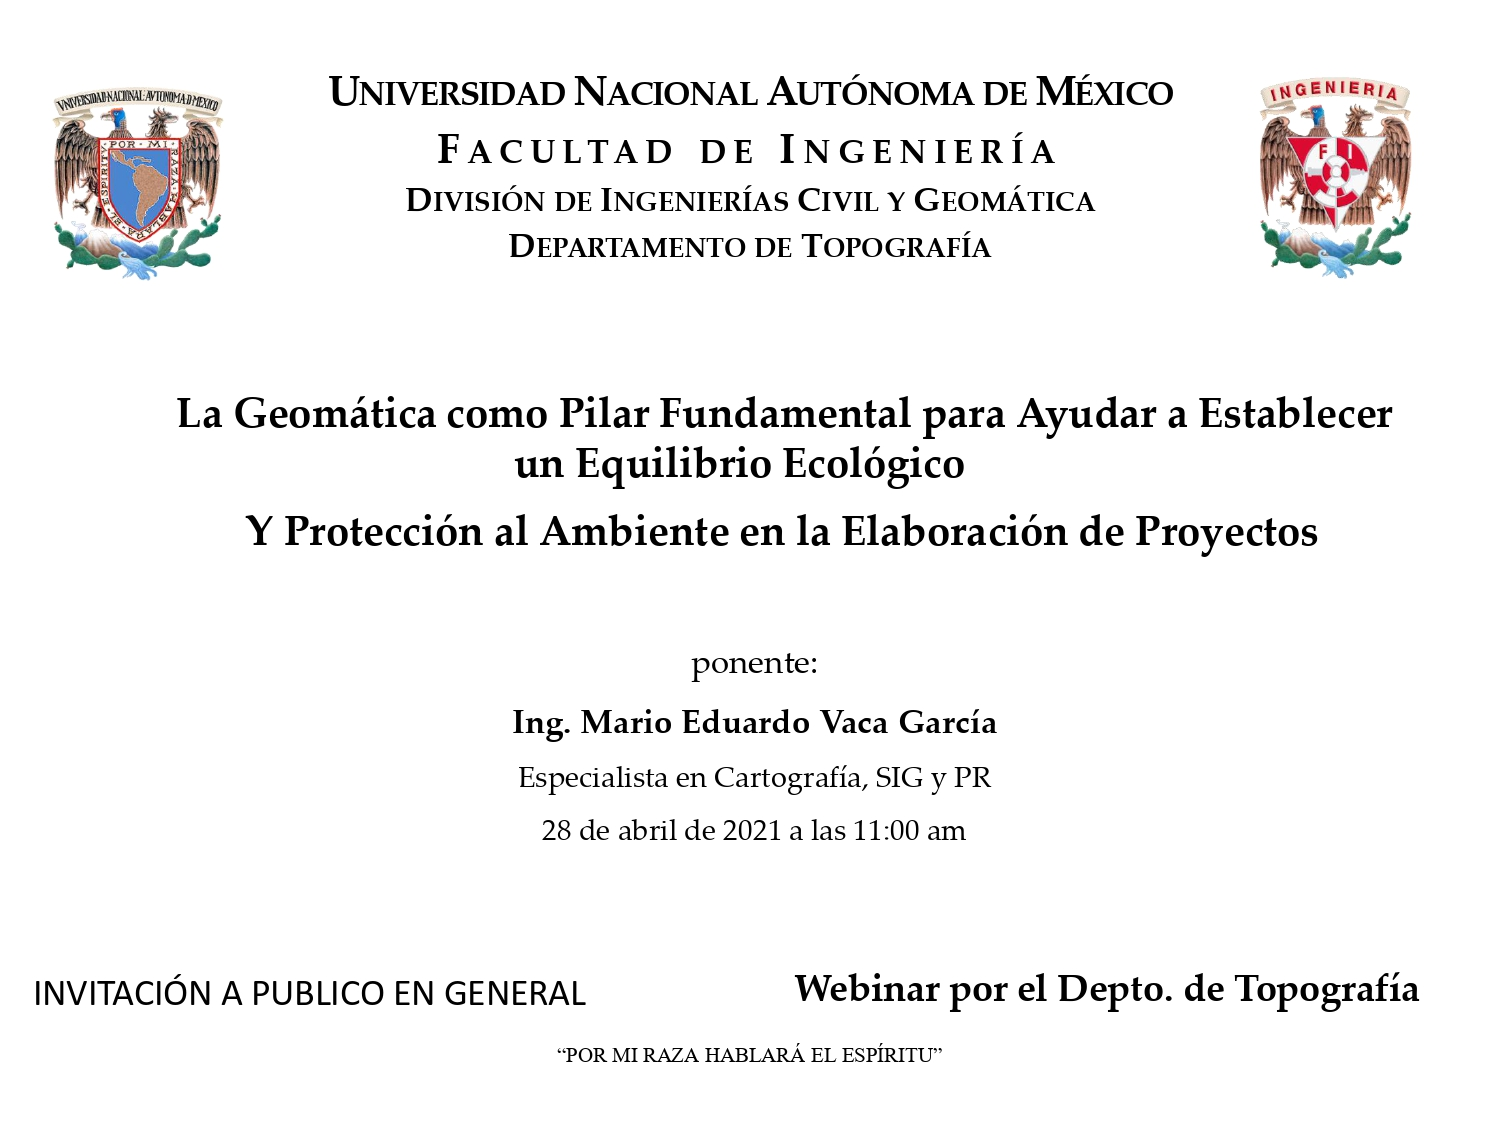
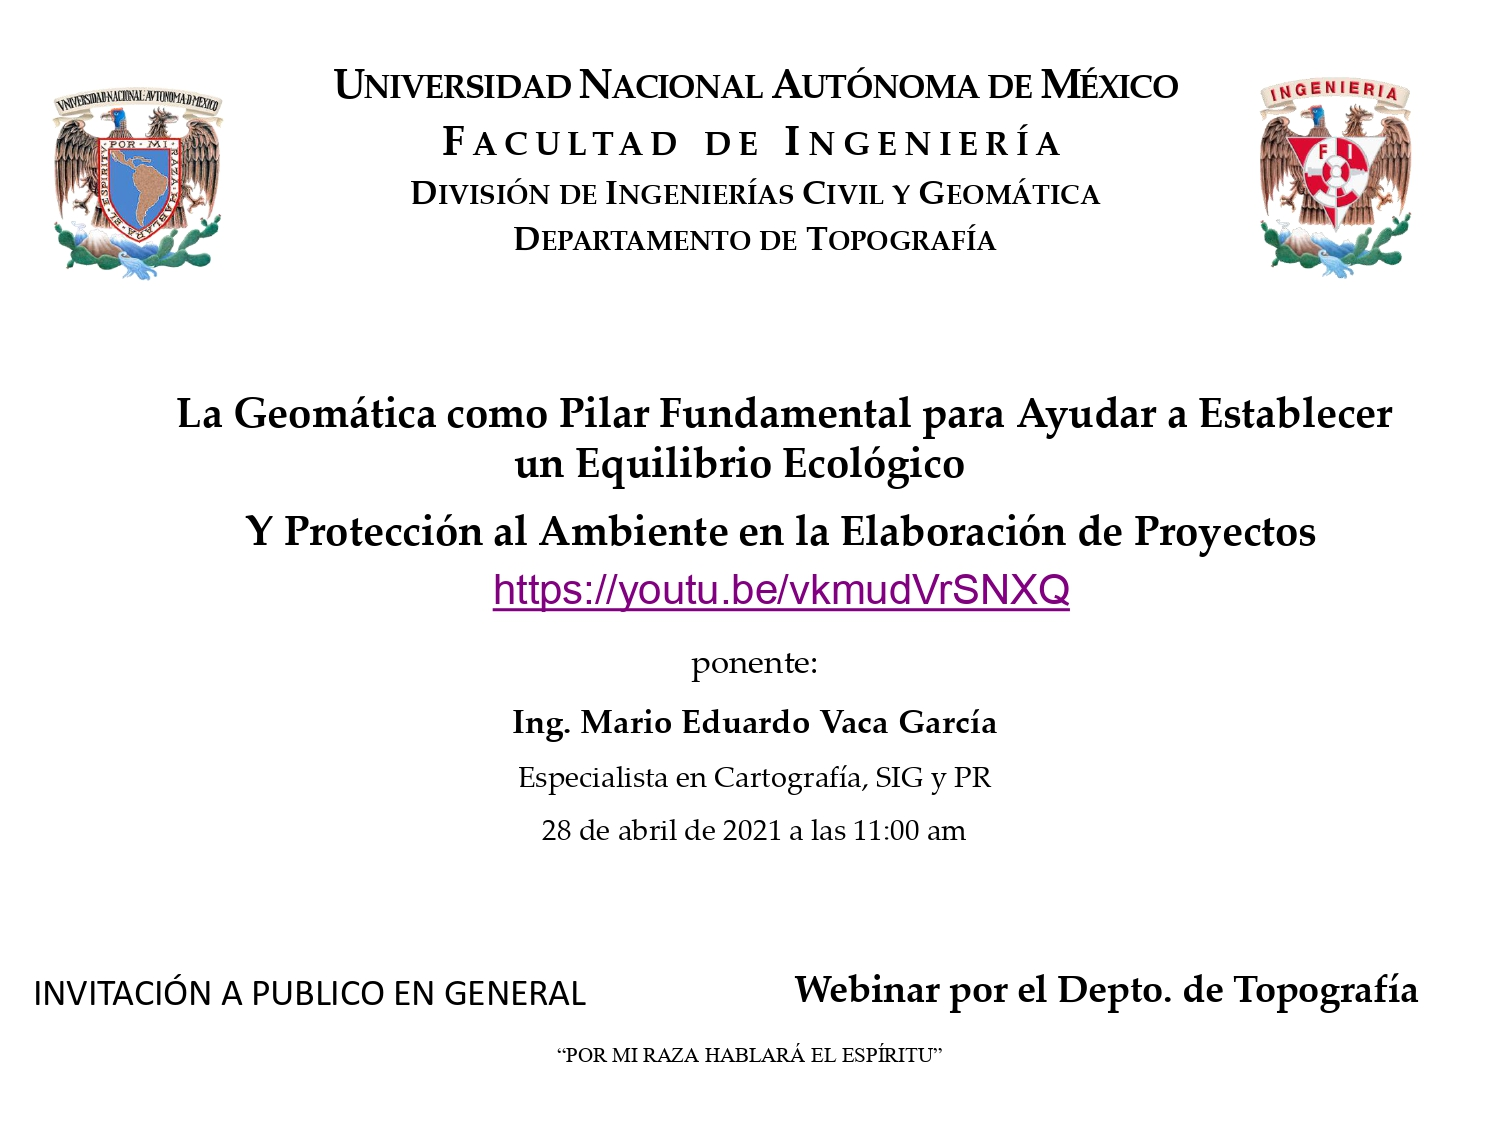
cambiando conferencia carrusel

diff --git a/index.html b/index.html
@@ -29,7 +29,7 @@
             <ul>
                 <li><a href="http://dicyg.fi-c.unam.mx:8080/Site" target="_blank"><img src="./img/images/hero_geom.png" alt="Imagen facultad"></a></li>
                 <li><a href="./docs/index/asesoria.pdf" target="_blank"><img src="./img/images/asesoria.jpg" alt="Asesoria"></a></li>
-                <li><a href="./docs/index/conferencia_equilibrio.pdf" target="_blank"><img src="./img/images/conferencia.jpg" alt="Conferencia"></a></li>
+                <li><a href="https://youtu.be/vkmudVrSNXQ" target="_blank"><img src="./img/images/conferencia.jpg" alt="Conferencia"></a></li>
                 <li><a href="./img/images/orientaton20212.jpg" target="_blank"><img src="./img/images/orientaton20212.jpg" alt="Orientaton 2021-2"></a></li>
                 <li><a href="https://www.youtube.com/channel/UC2nNBReJ13F7MKPsxDJOy0A/live"><img src="./img/images/seminario_bim.jpeg" alt="Seminario BIM"></a></li>
                 <li><a href="https://meet.google.com/zoc-tnmn-azm"><img src="./img/images/curso_python_nombre.jpg" alt="Curso Python Básico"></a></li>
